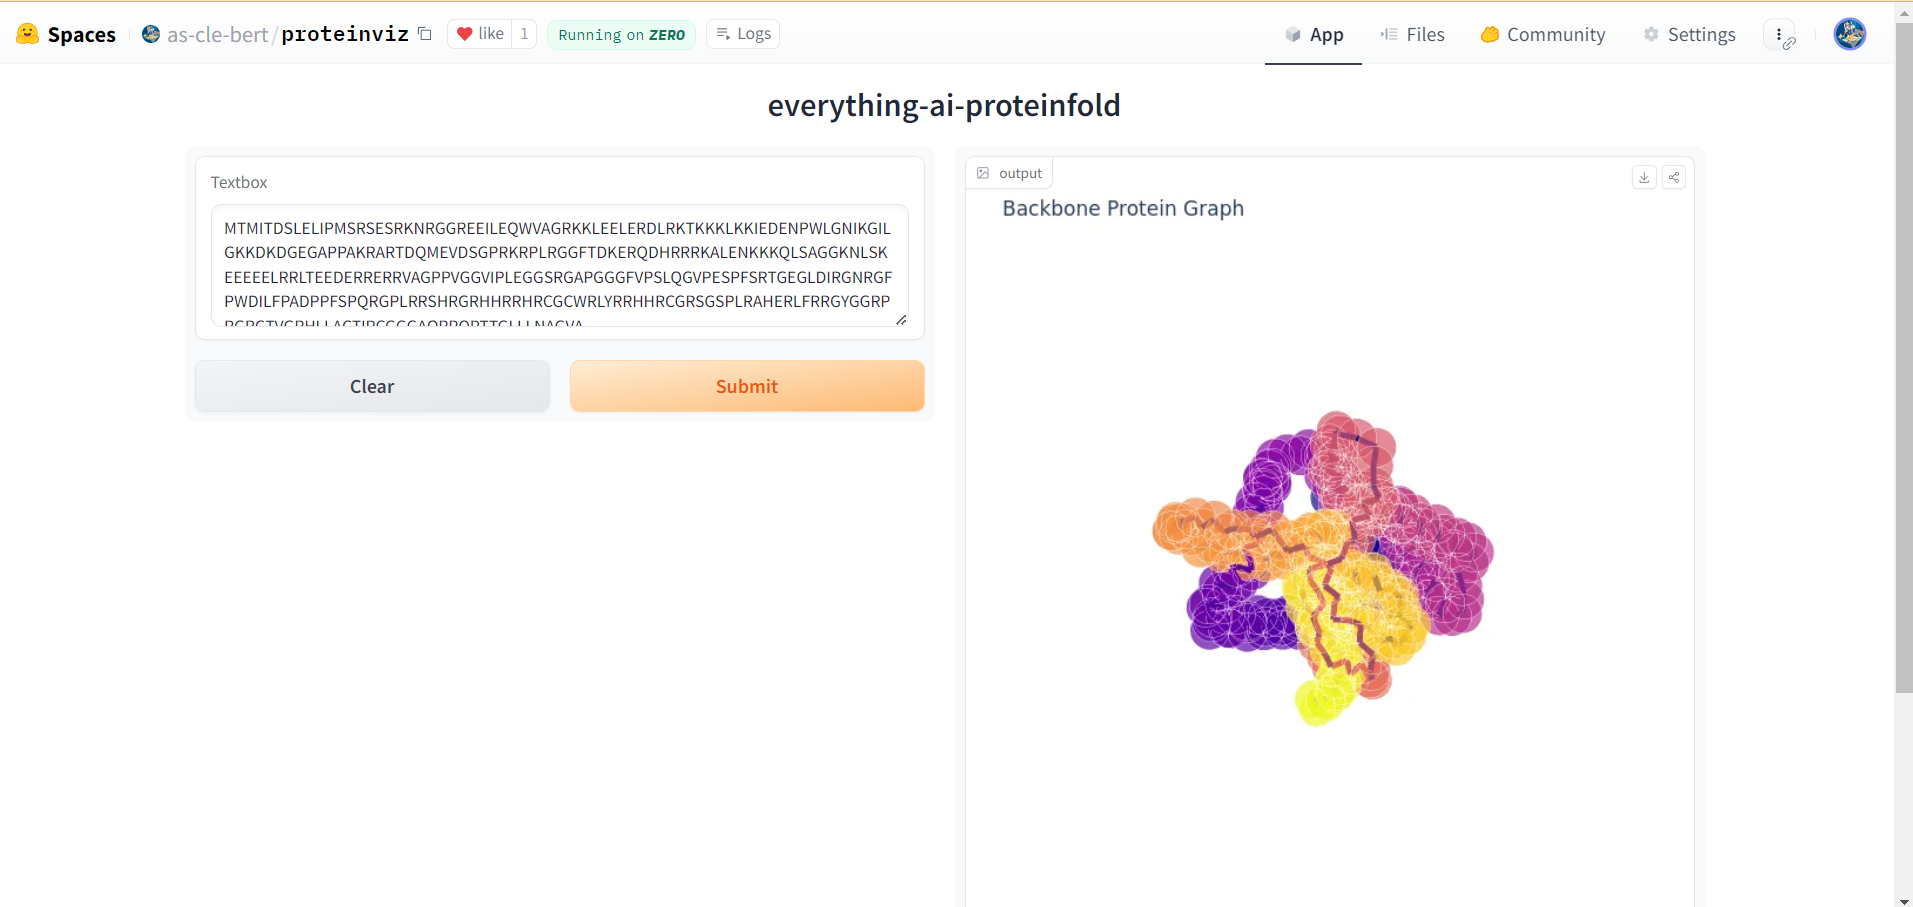
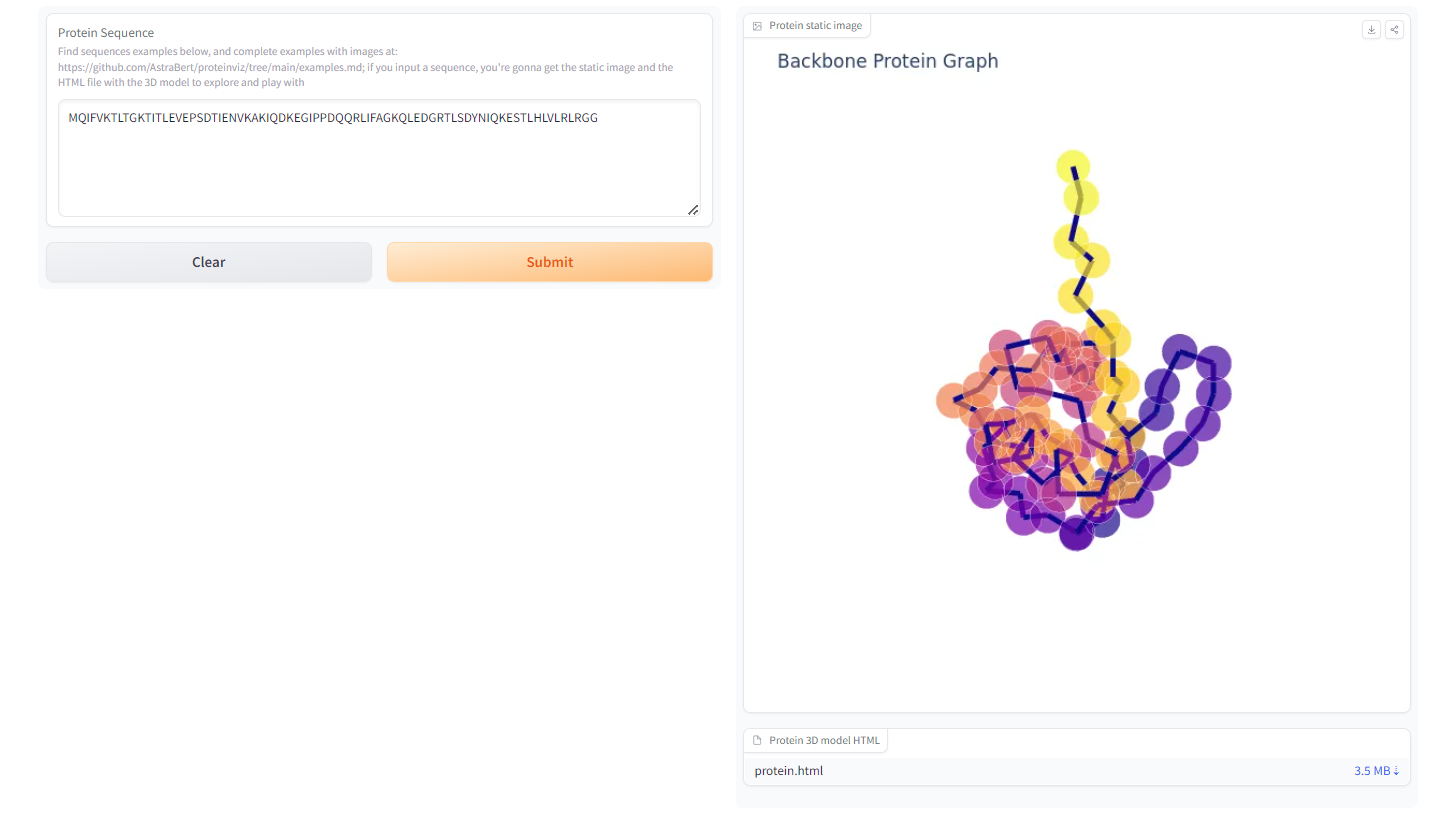
sl mod

diff --git a/examples.md b/examples.md
@@ -1,5 +1,5 @@
 | Protein | Sequence | Predicted Structure | HTML 3D Model |
 | ------- | -------- | ------------------- |---------------|
 | Hemoglobin | MVHLTPEEKSAVTALWGKVNVDEVGGEALGRLLVVYPWTQRFFESFGDLSTPDAVMGNPKVKAHGKKVLGAFSDGLAHLDNLKGTFATLSELHCDKLHVDPENFRLLGNVLVCVLAHHFGKEFTPPVQAAYQKVVAGVANALAHKYH | ![Structure 1](./imgs/hemoglobin.png) | [hemoglobin.html](./imgs/hemoglobin.html) |
-| HRAS GTPase | MTEYKLVVVGAGGVGKSALTIQLIQNHFVDEYDPTIEDSYRKQVVIDGETCLLDILDTAGQEEYSAMRDQYMRTGEGFLCVFAINNTKSFEDIHQYREQIKRVKDSDDVPMVLVGNKCDLAARTVESRQAQDLARSYGIPYIETSAKTRQGVEDAFYTLVREIRQHKLRKLNPPDESGPGCMSCKCVLS | ![Structure 2](./imgs/hras_gtpase.png) | [hemoglobin.html](./imgs/hras_gtpase.html) |
-| Ubiquitin-Ribosomal Protein (S27) | MQIFVKTLTGKTITLEVEPSDTIENVKAKIQDKEGIPPDQQRLIFAGKQLEDGRTLSDYNIQKESTLHLVLRLRGG | ![Structure 3](./imgs/ribo_prot.png) | [hemoglobin.html](./imgs/ribo_prot.html) |
+| HRAS GTPase | MTEYKLVVVGAGGVGKSALTIQLIQNHFVDEYDPTIEDSYRKQVVIDGETCLLDILDTAGQEEYSAMRDQYMRTGEGFLCVFAINNTKSFEDIHQYREQIKRVKDSDDVPMVLVGNKCDLAARTVESRQAQDLARSYGIPYIETSAKTRQGVEDAFYTLVREIRQHKLRKLNPPDESGPGCMSCKCVLS | ![Structure 2](./imgs/hras_gtpase.png) | [hras_gtpase.html](./imgs/hras_gtpase.html) |
+| Ubiquitin-Ribosomal Protein (S27) | MQIFVKTLTGKTITLEVEPSDTIENVKAKIQDKEGIPPDQQRLIFAGKQLEDGRTLSDYNIQKESTLHLVLRLRGG | ![Structure 3](./imgs/ribo_prot.png) | [ribo_prot.html](./imgs/ribo_prot.html) |

diff --git a/README.md b/README.md
@@ -17,6 +17,8 @@ The model predicts the positions of the amino-acids and its predictions get turn
 
 The protein is then visualized through a complex interaction leveraging _biopandas_ (to read the PDB file), _plotly_ and _graphein_ to actually build the image (which is indeed a backbone structure representation) and _PIL_ to show it.
 
+Finally, the _graphein_ plot is written to an HTML file, where the interactive 3D model is stored: this file is available for download and you can explore and play with it!
+
 Everything is easily rendered through a Gradio interface.
 
 ### How can I reproduce it on my computer?
